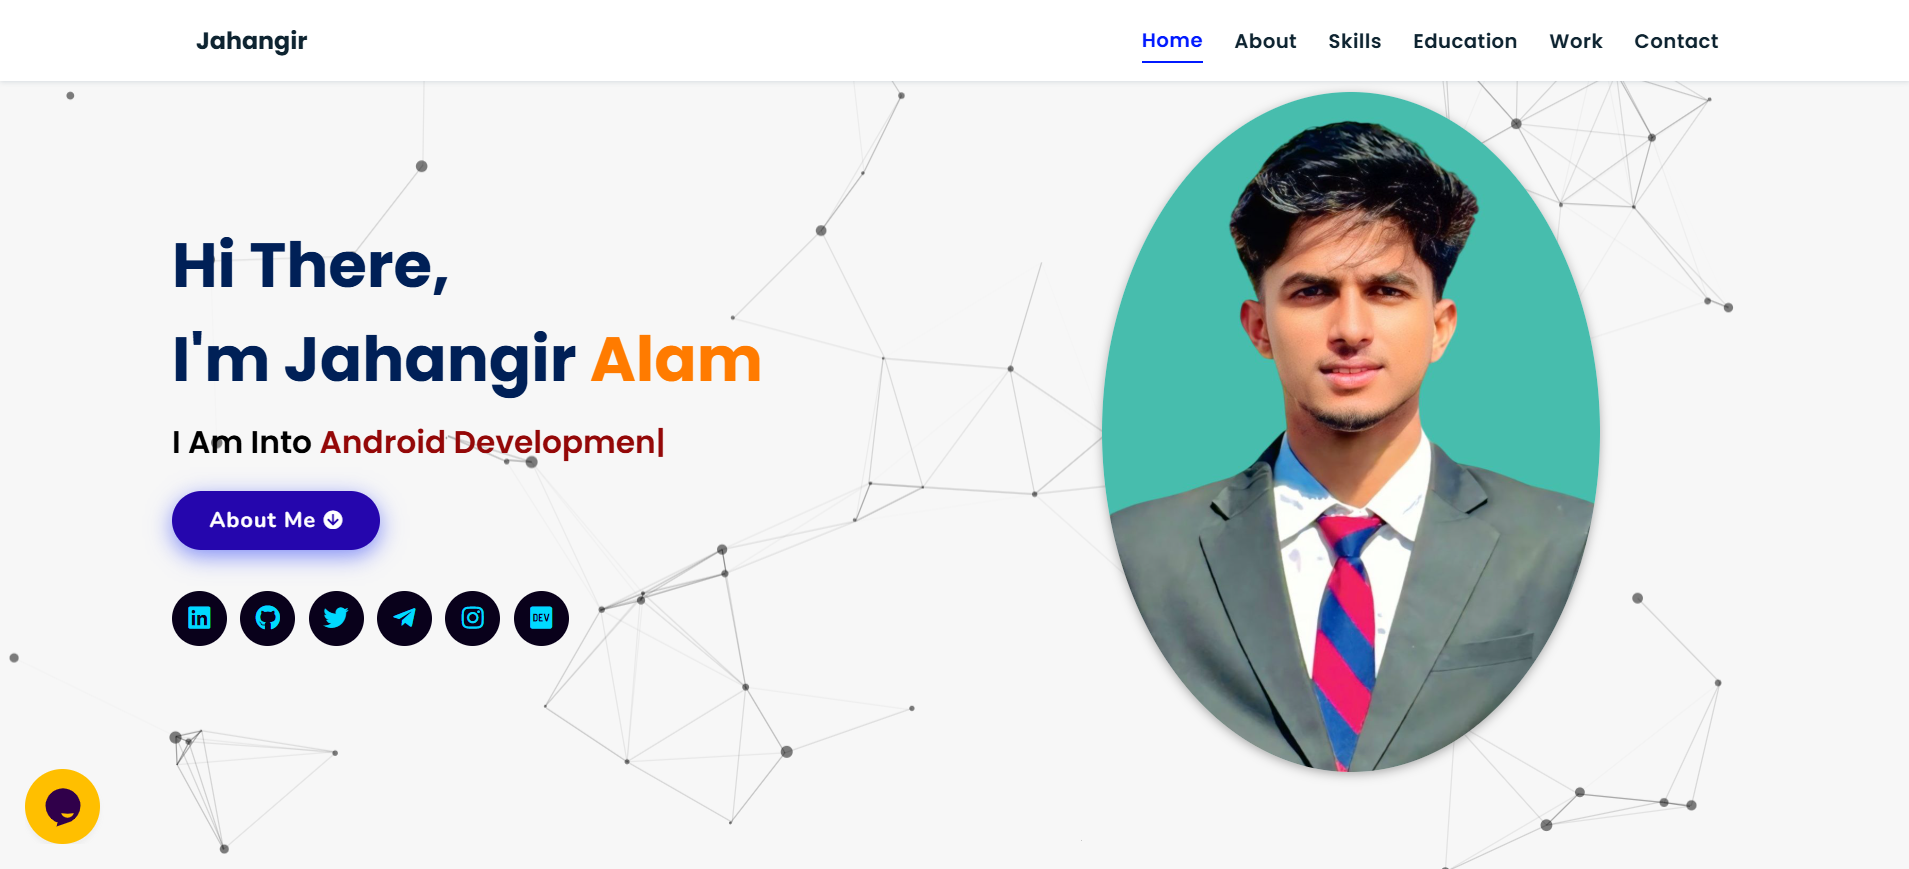
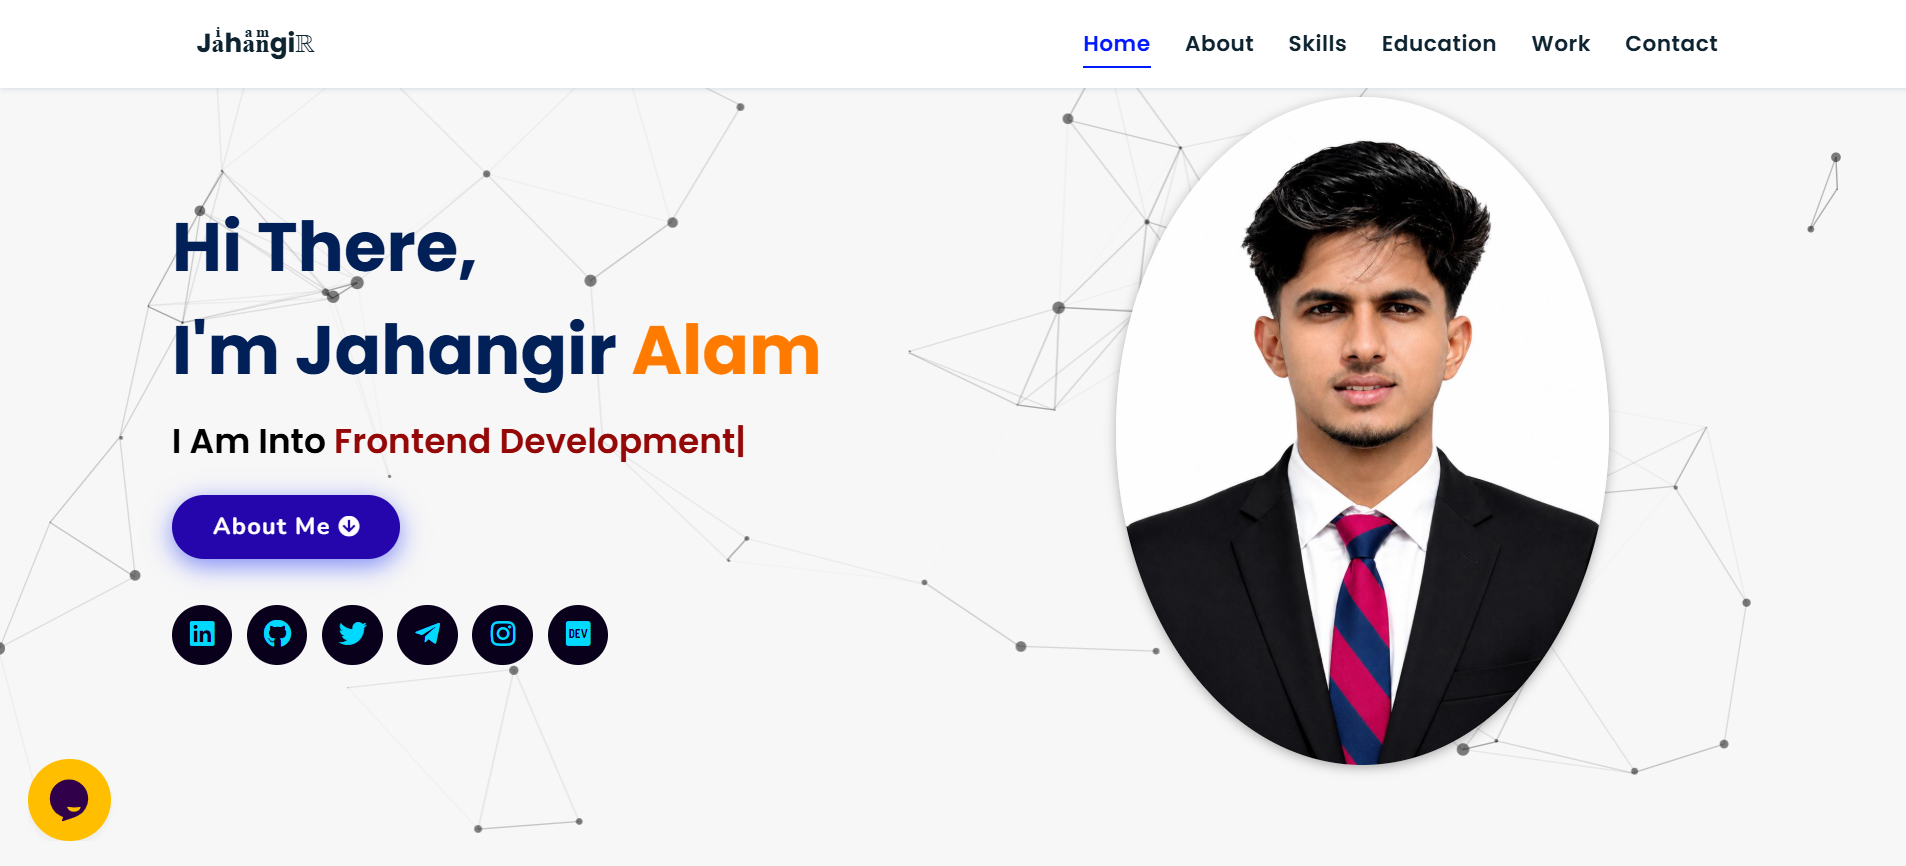
updated website

diff --git a/index.html b/index.html
@@ -33,6 +33,7 @@
             <li><a href="#skills">Skills</a></li>
             <li><a href="#education">Education</a></li>
             <li><a href="#work">Work</a></li>
+            <li><a href="#certifications">Certifications</a></li>
             <li><a href="#contact">Contact</a></li>
             </ul>
         </nav>
@@ -219,6 +220,109 @@
 <!-- work project section ends -->
 
 
+<!-- certifications section starts -->
+<section class="work certifications" id="certifications">
+
+  <h2 class="heading"><i class="fas fa-certificate"></i> Certifications <span>Earned</span></h2>
+
+  <div class="box-container">
+
+    <div class="box tilt">
+      <img draggable="false" src="./assets/images/certificates/nptel-oop.png" alt="NPTEL Fundamentals of Object Oriented Programming certificate" onerror="this.hidden=true; this.nextElementSibling.hidden=false" />
+      <div class="certificate-missing" hidden>NPTEL certificate image unavailable</div>
+      <div class="content">
+        <div class="tag">
+          <h3>NPTEL OOP</h3>
+        </div>
+        <div class="desc">
+          <p>Elite certification in Fundamentals of Object Oriented Programming.</p>
+        </div>
+      </div>
+    </div>
+
+    <div class="box tilt">
+      <img draggable="false" src="./assets/images/certificates/internshala-isp-52.png" alt="Internshala Student Partner certificate" onerror="this.hidden=true; this.nextElementSibling.hidden=false" />
+      <div class="certificate-missing" hidden>Internshala certificate image unavailable</div>
+      <div class="content">
+        <div class="tag">
+          <h3>Internshala ISP 52</h3>
+        </div>
+        <div class="desc">
+          <p>Certificate of participation in the ISP 52 First Trainings Contest Webinar.</p>
+        </div>
+      </div>
+    </div>
+
+    <div class="box tilt">
+      <img draggable="false" src="./assets/images/certificates/simplilearn-generative-ai.png" alt="Simplilearn Introduction to Generative AI certificate" onerror="this.hidden=true; this.nextElementSibling.hidden=false" />
+      <div class="certificate-missing" hidden>Simplilearn certificate image unavailable</div>
+      <div class="content">
+        <div class="tag">
+          <h3>Generative AI</h3>
+        </div>
+        <div class="desc">
+          <p>Simplilearn and Google Cloud completion certificate for Introduction to Generative AI.</p>
+        </div>
+      </div>
+    </div>
+
+    <div class="box tilt">
+      <img draggable="false" src="./assets/images/certificates/naukri-campus-bizquezt.png" alt="Naukri Campus Bizquezt participation certificate" onerror="this.hidden=true; this.nextElementSibling.hidden=false" />
+      <div class="certificate-missing" hidden>Naukri Campus certificate image unavailable</div>
+      <div class="content">
+        <div class="tag">
+          <h3>Naukri Campus Bizquezt</h3>
+        </div>
+        <div class="desc">
+          <p>Certificate of participation in the Bizquezt corporate milestones and business history event.</p>
+        </div>
+      </div>
+    </div>
+
+    <div class="box tilt">
+      <img draggable="false" src="./assets/images/certificates/scholarhat-java.png" alt="ScholarHat Java Programming Course certificate" onerror="this.hidden=true; this.nextElementSibling.hidden=false" />
+      <div class="certificate-missing" hidden>ScholarHat certificate image unavailable</div>
+      <div class="content">
+        <div class="tag">
+          <h3>Java Programming</h3>
+        </div>
+        <div class="desc">
+          <p>ScholarHat certificate for completing the Java Programming Course for Beginners.</p>
+        </div>
+      </div>
+    </div>
+
+    <div class="box tilt">
+      <img draggable="false" src="./assets/images/certificates/codewithharry-python.png" alt="CodeWithHarry Python Bootcamp certificate" onerror="this.hidden=true; this.nextElementSibling.hidden=false" />
+      <div class="certificate-missing" hidden>CodeWithHarry certificate image unavailable</div>
+      <div class="content">
+        <div class="tag">
+          <h3>Python Bootcamp</h3>
+        </div>
+        <div class="desc">
+          <p>Certificate for completing the English Complete 2025 Python Bootcamp from Scratch.</p>
+        </div>
+      </div>
+    </div>
+
+    <div class="box tilt">
+      <img draggable="false" src="./assets/images/certificates/pratinik-internship.png" alt="Pratinik Infotech web development internship certificate" onerror="this.hidden=true; this.nextElementSibling.hidden=false" />
+      <div class="certificate-missing" hidden>Pratinik certificate image unavailable</div>
+      <div class="content">
+        <div class="tag">
+          <h3>Web Development Internship</h3>
+        </div>
+        <div class="desc">
+          <p>Certificate of internship completion from Pratinik Infotech.</p>
+        </div>
+      </div>
+    </div>
+
+  </div>
+</section>
+<!-- certifications section ends -->
+
+
 <!-- contact section starts -->
 <section class="contact" id="contact">
   
@@ -277,6 +381,7 @@
           <a href="#skills"><i class="fas fa-chevron-circle-right"></i> skills</a>
           <a href="#education"><i class="fas fa-chevron-circle-right"></i> education</a>
           <a href="#work"><i class="fas fa-chevron-circle-right"></i> work</a>
+          <a href="#certifications"><i class="fas fa-chevron-circle-right"></i> certifications</a>
           <a href="#experience"><i class="fas fa-chevron-circle-right"></i> experience</a>
       </div>
 

diff --git a/assets/css/style.css b/assets/css/style.css
@@ -759,6 +759,70 @@ header .navbar ul li a:hover {
 }
 /* work section ends */
 
+/* certifications section starts */
+.certifications {
+  background: linear-gradient(to bottom, #101044, #09092f);
+}
+.certifications .heading span {
+  color: #55d6be;
+}
+.certifications .box-container {
+  display: grid;
+  grid-template-columns: repeat(3, minmax(0, 1fr));
+}
+.certifications .box-container .box {
+  height: auto;
+  min-height: 38rem;
+  display: flex;
+  flex-direction: column;
+}
+.certifications .box-container .box img {
+  display: block;
+  flex: 0 0 25rem;
+  height: 25rem;
+  object-fit: contain;
+  background: #fff;
+}
+.certifications .certificate-missing {
+  min-height: 25rem;
+  flex: 0 0 25rem;
+  display: flex;
+  align-items: center;
+  justify-content: center;
+  padding: 2rem;
+  color: #555;
+  background: #f4f4f4;
+  font-size: 1.6rem;
+  text-align: center;
+}
+.certifications .certificate-missing[hidden] {
+  display: none;
+}
+.certifications .box-container .box .content {
+  position: static;
+  width: 100%;
+  height: auto;
+  min-height: 13rem;
+  flex: 1;
+}
+.certifications .box-container .box:hover .content {
+  top: auto;
+}
+.certifications .box-container .box .content .tag {
+  background: #55d6be;
+}
+@media screen and (max-width: 800px) {
+  .certifications .box-container {
+    grid-template-columns: repeat(2, minmax(0, 1fr));
+  }
+}
+@media screen and (max-width: 600px) {
+  .certifications .box-container {
+    grid-template-columns: 1fr;
+  }
+}
+/* certifications section ends */
+
 /* experience section starts */
 .experience .timeline {
   position: relative;
